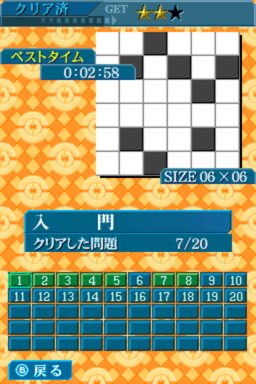
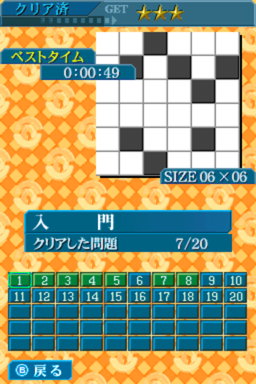
Vol.10: 补录入門001，validation 补齐 20/20（001 为 3★/0:00:49），存档同步写盘

diff --git a/解谜系列Vol.10：数壹/validation/check_stars.py b/解谜系列Vol.10：数壹/validation/check_stars.py
@@ -10,7 +10,7 @@ import numpy as np
 from PIL import Image
 
 FULL = {            # 难度目录 -> (满星数, 首关, 末关)
-    'mode1_tutorial': (3, 2, 20),
+    'mode1_tutorial': (3, 1, 20),
     'mode2_easy':     (4, 1, 100),
     'mode3_medium':   (5, 1, 100),
     'mode4_hard':     (6, 1, 80),

diff --git a/解谜系列Vol.10：数壹/validation/README.md b/解谜系列Vol.10：数壹/validation/README.md
@@ -9,7 +9,7 @@
 
 | 难度 | 目录 | 满星 | 关卡数 | 盘面 |
 |---|---|---|---|---|
-| 入門 | `mode1_tutorial/` | 3★ | 20（已录 19） | 6×6 |
+| 入門 | `mode1_tutorial/` | 3★ | 20 | 6×6 |
 | やさしい | `mode2_easy/` | 4★ | 100 | 8×8 |
 | ふつう | `mode3_medium/` | 5★ | 100 | 1–50: 8×8 / 51–100: 12×12 |
 | むずかしい | `mode4_hard/` | 6★ | 80 | 1–30: 12×12 / 31–80: 17×17 |
@@ -18,7 +18,7 @@
 
 | 难度 | 星级证据 | 完成图 | 说明 |
 |---|---|---|---|
-| 入門 | 19 张，全 3★ | — | 第 001 問无录播，故无 l001 |
+| 入門 | 20 张，全 3★ | — | 齐全（001 为事后补录，见下） |
 | やさしい | 100 张，全 4★ | — | 齐全 |
 | ふつう | 50 张，全 5★（001–050） | 50 张（051–100） | 后 50 关旧批次只录到「完成!」，无星结算 |
 | むずかしい | 80 张，全 6★ | — | 31–80 为 17×17，靠四向蓝箭头滚动视口完成 |
@@ -60,7 +60,7 @@ cd validation && python3 check_stars.py
 
 | 难度 | 录制时间 | 源目录 |
 |---|---|---|
-| 入門 | 2026-11-03 17:53 ~ 18:06 | `Vol.10_入門录播/` |
+| 入門 | 2026-11-03 17:53 ~ 18:06（002–020）；2026-11-05 09:33 补录 001 | `Vol.10_入門录播/` |
 | やさしい | 2026-11-03 22:41 ~ 11-04 00:37 | `Vol.10_易しい录播/` |
 | ふつう | 2026-11-04 09:17 ~ 17:33 | `Vol.10_ふつう录播/` |
 | むずかしい 1–30 | 2026-11-04 21:05 ~ 22:17 | `Vol.10_むずかしい_星星结算录播/cut/` |
@@ -71,3 +71,12 @@ cd validation && python3 check_stars.py
 `saves/vol10.dsv` 为最终存档：**ふつう 100/100 + むずかしい 80/80**。
 入門在存档中仅 7/20、やさしい 100/100——入門/やさしい的录制早于本次存档整理，
 逐关进度未全部回写进该存档，因此存档进度与本目录证据数不完全对应。
+
+## 入門 001 的补录说明
+
+入門的批量录制从 002 起步，001 一直缺图。2026-11-05 09:33 单独补录了一次：
+从空盘按答案掩码逐格涂黑，**00:00:49 通关、3★**，结算页见 `mode1_tutorial/l001_clear.png`。
+
+存档里 001 原本是旧记录 **★★（0:02:58）**，本次补录后按 A 让游戏写盘，
+现在存档中 001 为 **★★★（0:00:49）**；`mode1_tutorial/00_select_7of20.png`
+也同步重拍，上屏 GET 显示 ★★★、ベストタイム 0:00:49。清关计数仍是 7/20（001 早已在册）。
